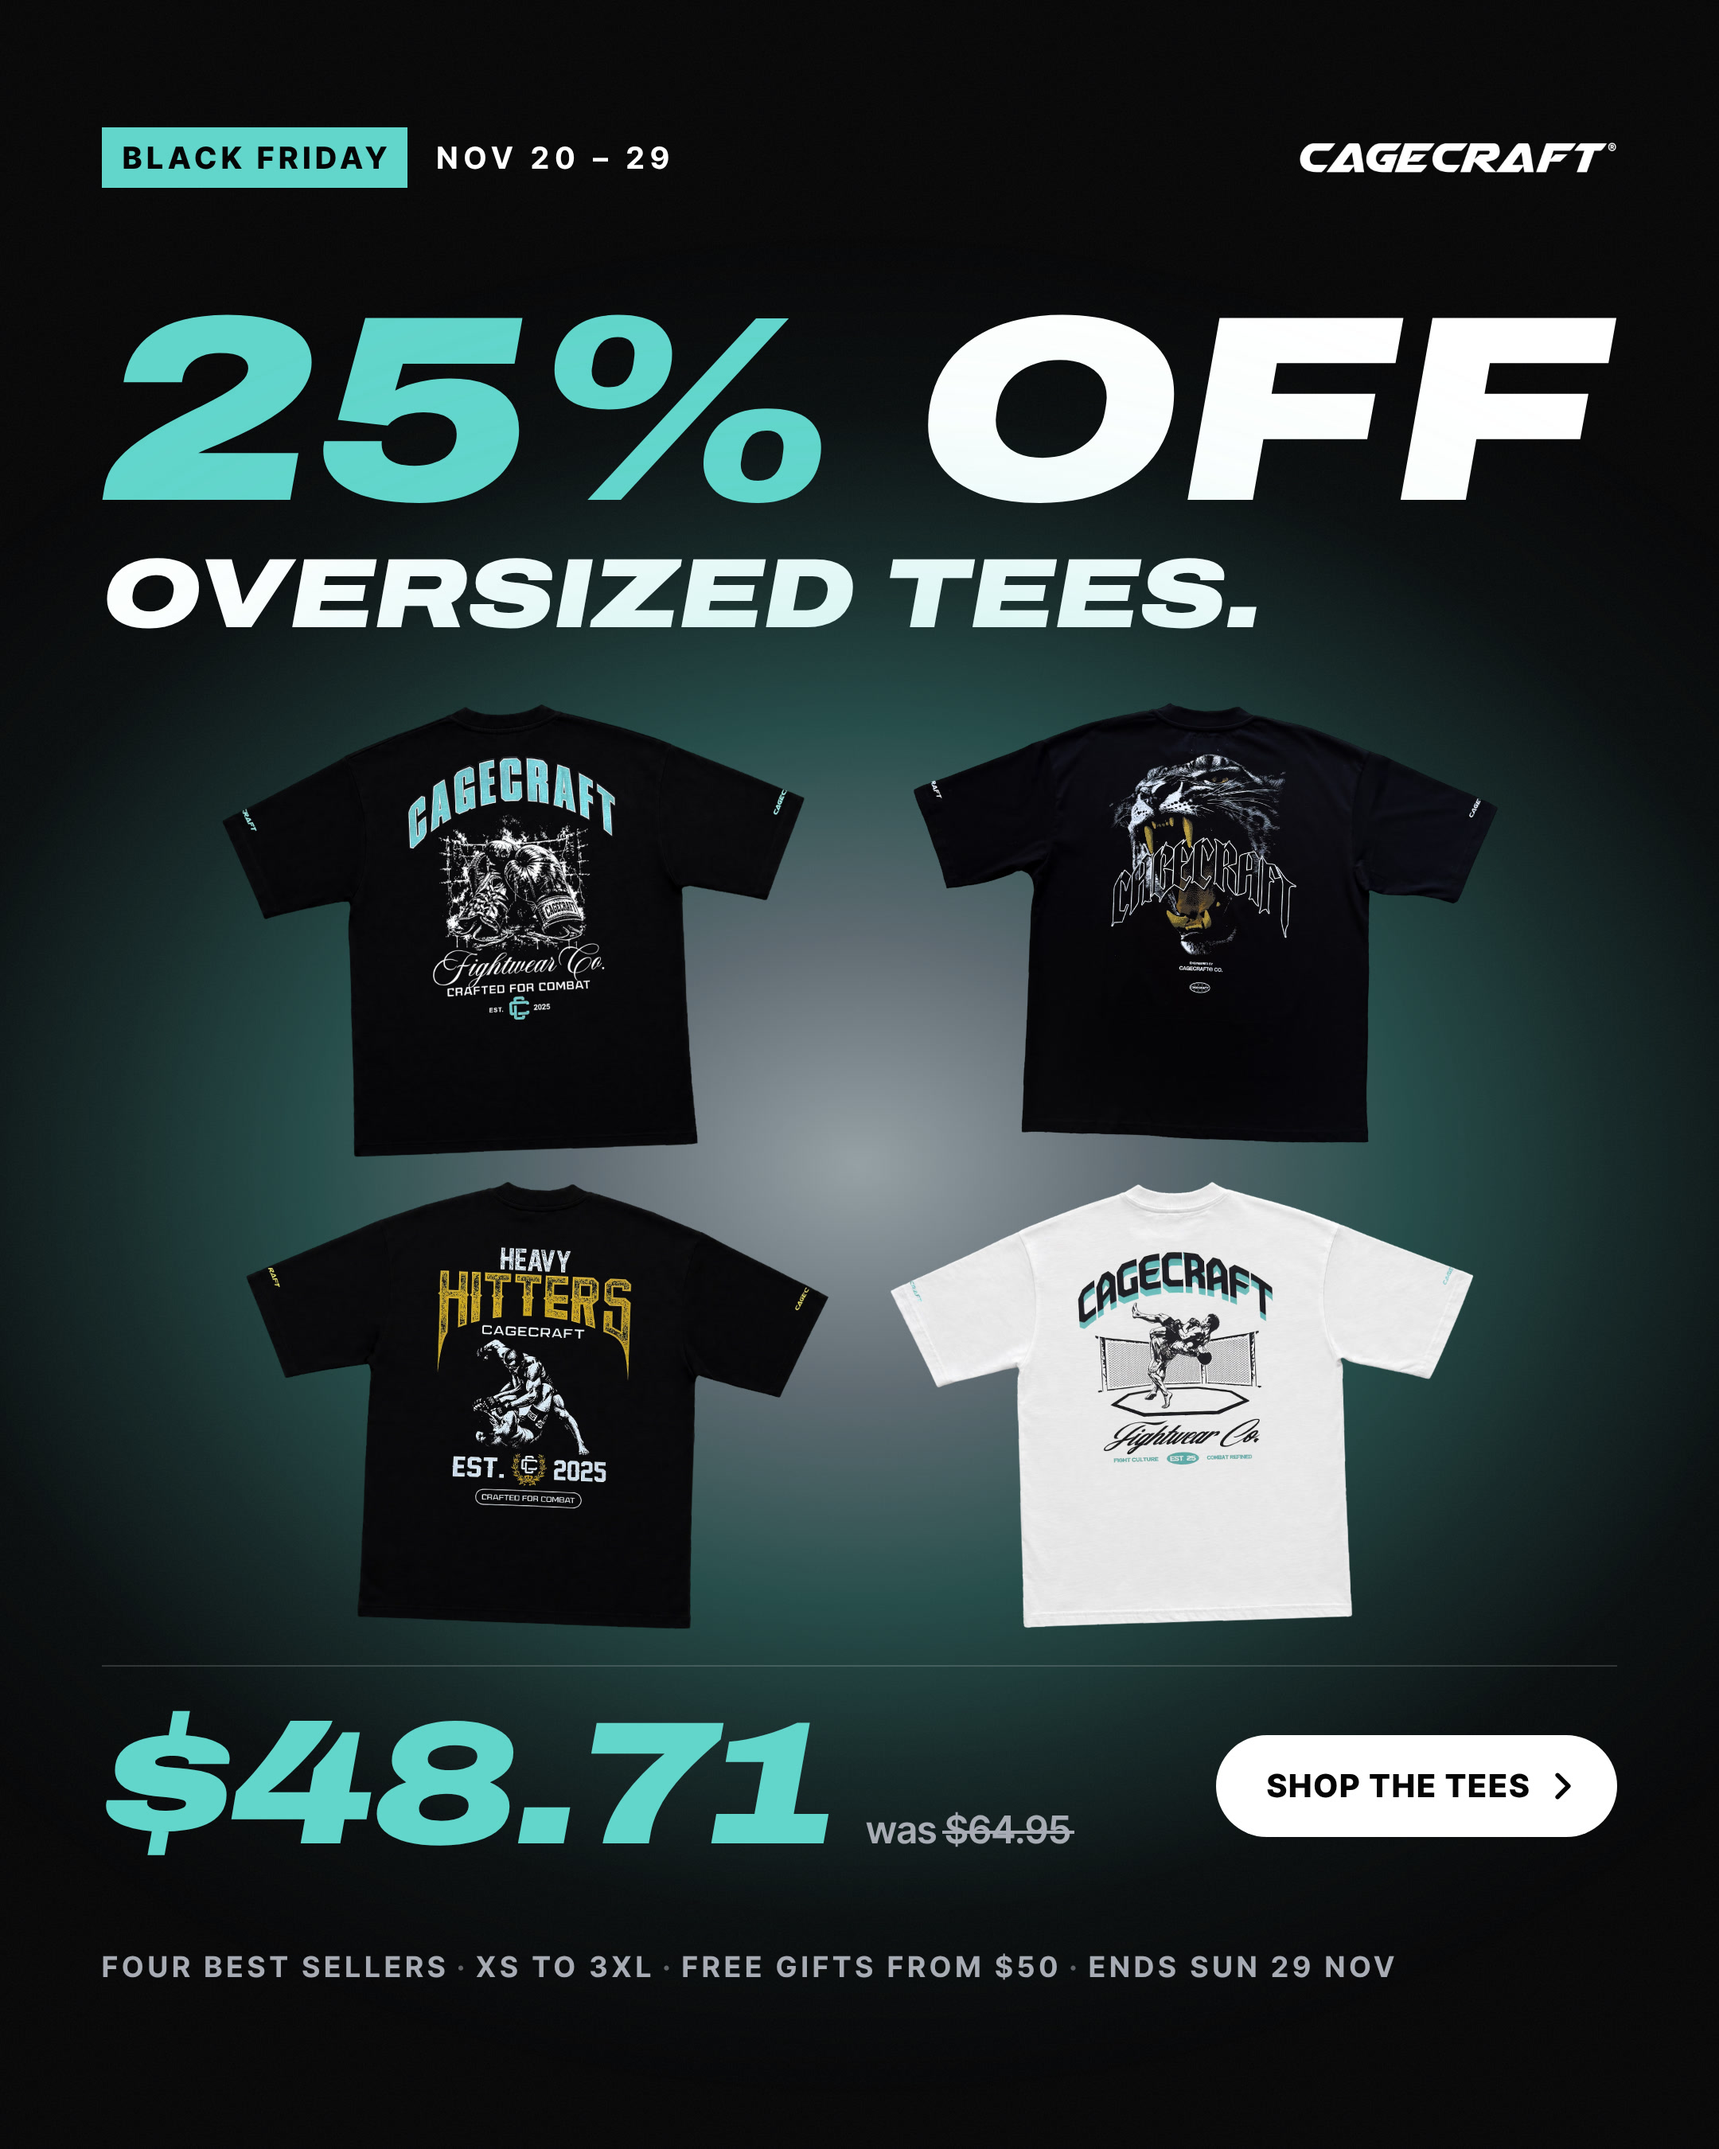
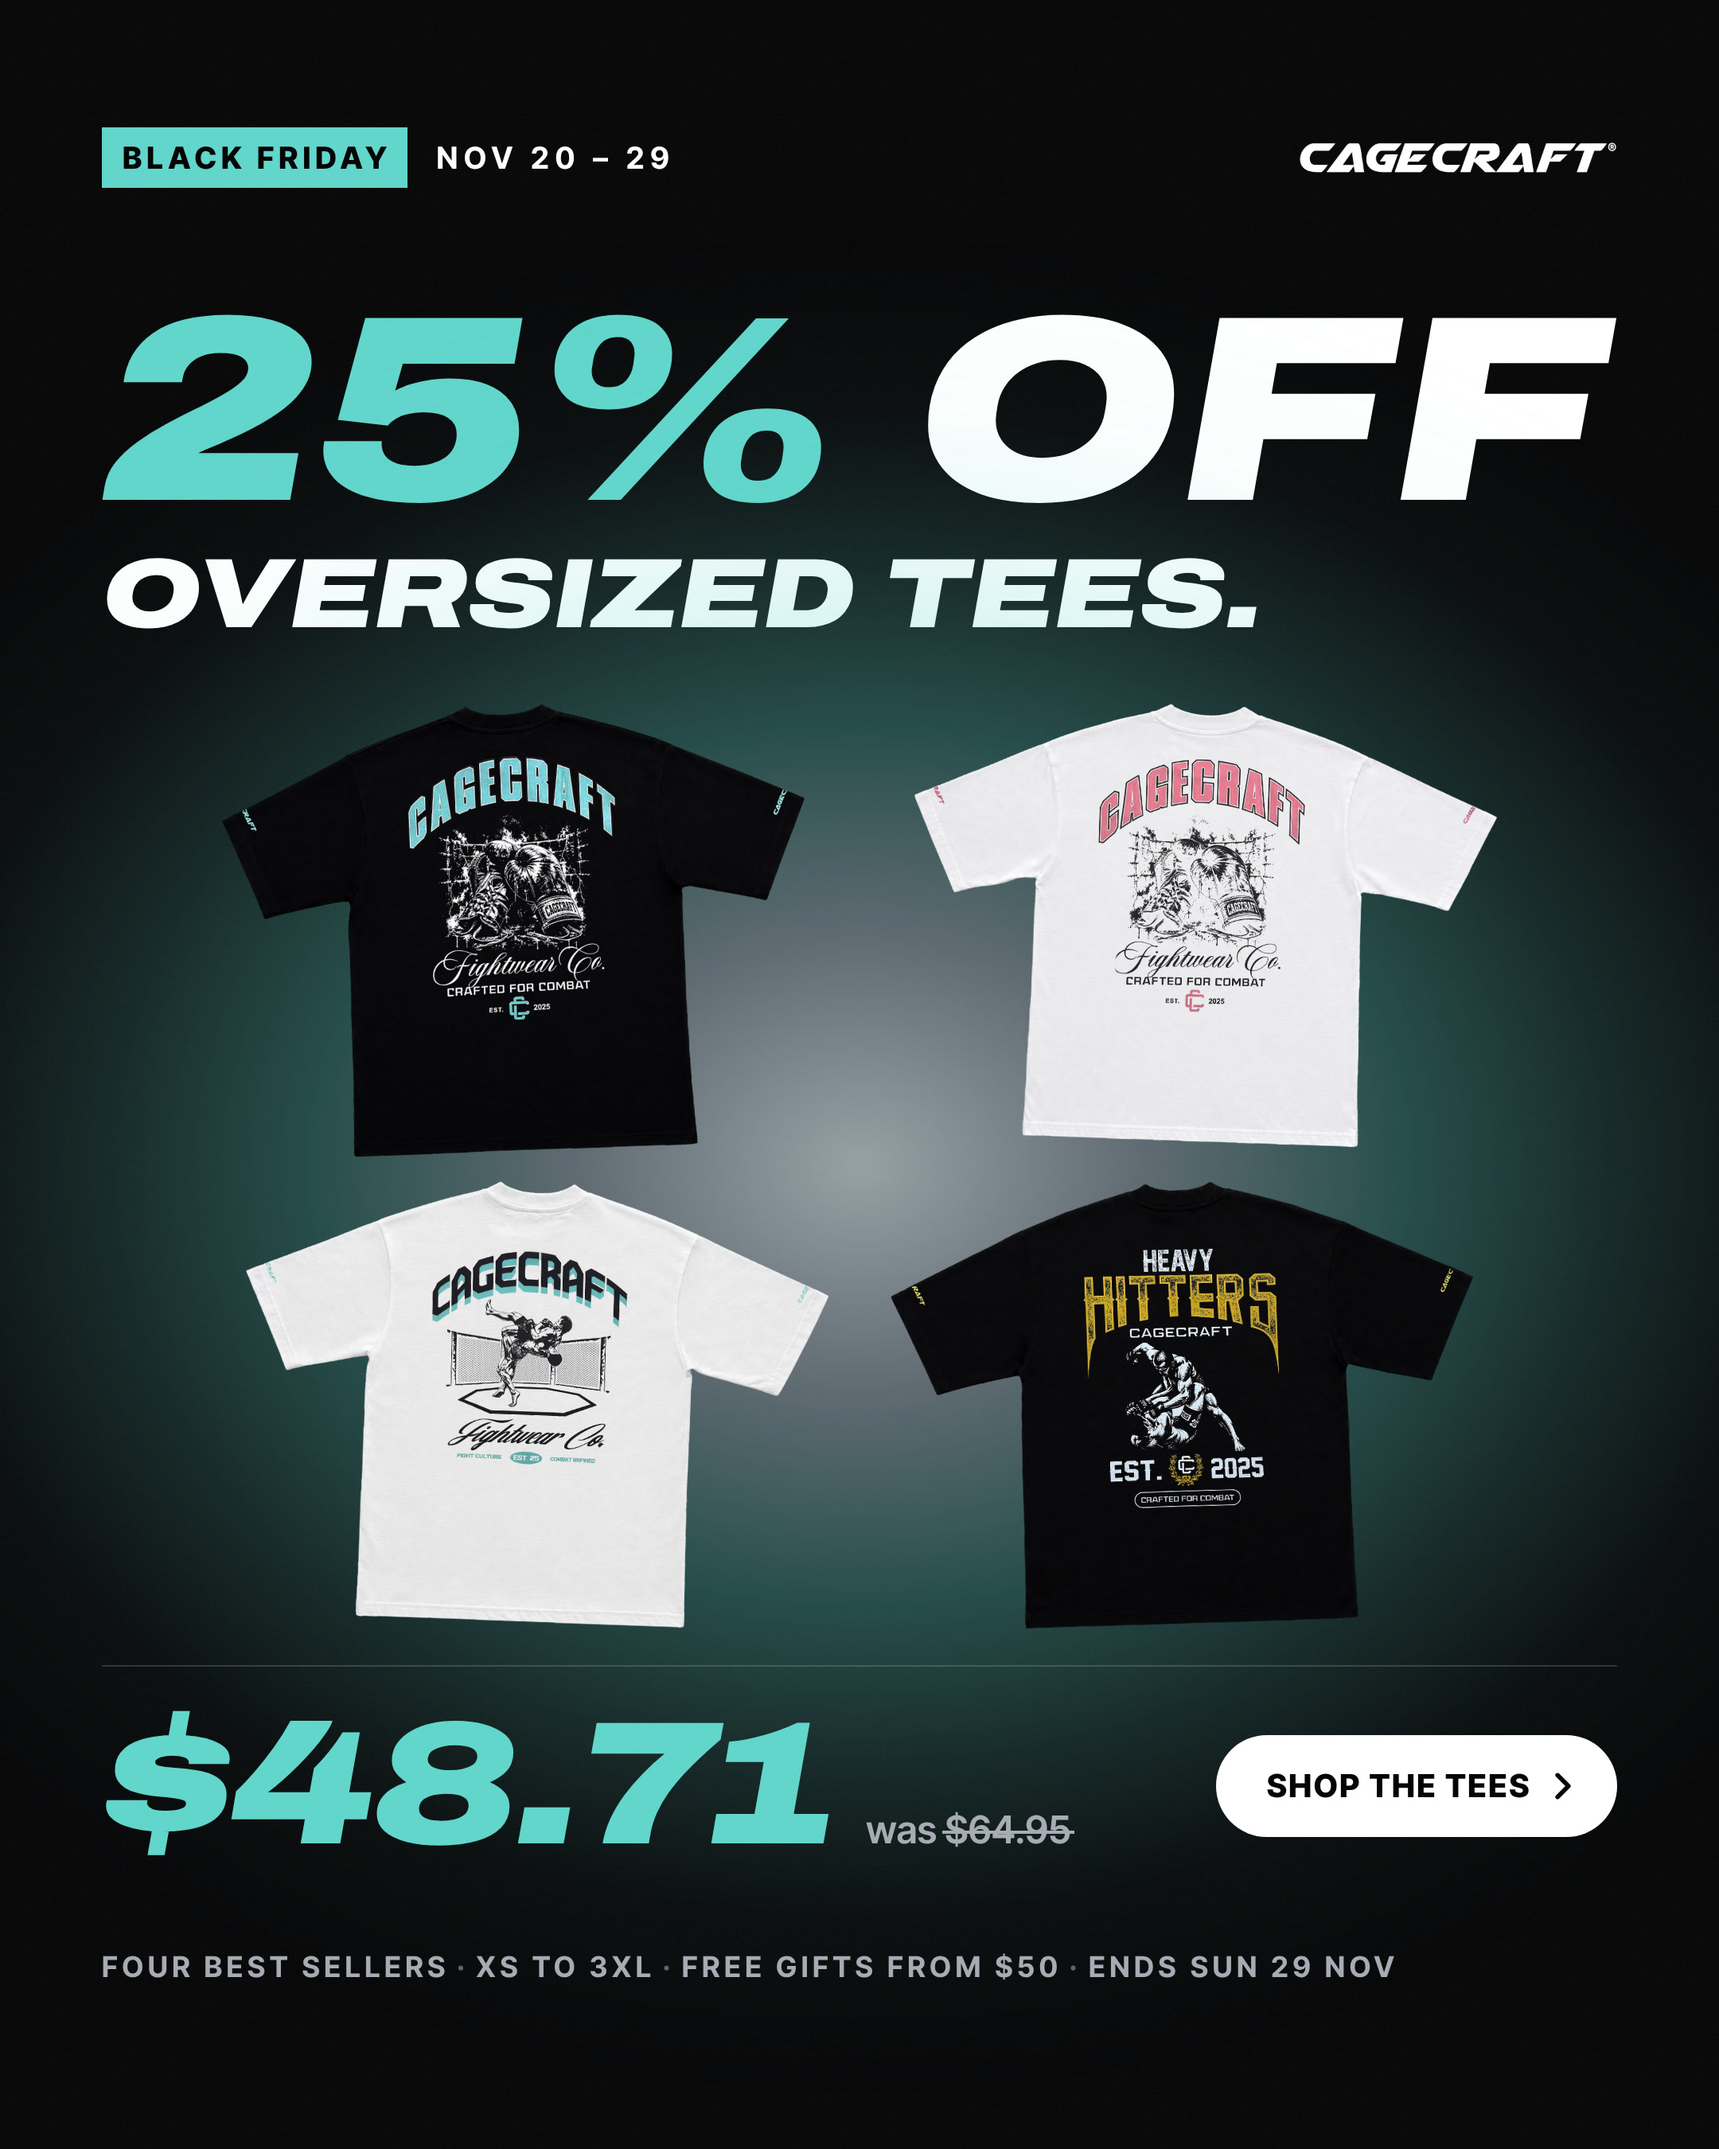
Tees ad: two black and two white tees
Claude-Session: https://claude.ai/code/session_01DwmoEmy8CSvczLcw7q8N8i

Changed region(s): [[0.1241, 0.3111, 0.8685, 0.7778]]

diff --git a/cagecraft-ads/ads/bf-11-tees-price-drop/ad.html b/cagecraft-ads/ads/bf-11-tees-price-drop/ad.html
@@ -96,7 +96,7 @@
   const L = tall ? { labelsY: 278, headY: 352, priceY: 1290, factsY: 1436 } : { labelsY: 80, headY: 184, priceY: 1046, factsY: 1228 };
   const R = document.documentElement.style;
   for (const [k, v] of Object.entries({ "--labels-y": L.labelsY, "--head-y": L.headY, "--h1": 166, "--h2": 62, "--price-y": L.priceY, "--facts-y": L.factsY })) R.setProperty(k, v + "px");
-  const items = tall ? [["tee-boxer-diamond/back.png", 315.0, 600, 400, -2, 0.7697], ["tee-apex-black/back.png", 765.0, 600, 400, 2, 0.7475], ["tee-heavy-hitters/back.png", 315.0, 930, 400, 2, 0.7619], ["tee-bodylock-tiffany/back.png", 765.0, 930, 400, -2, 0.7572]] : [["tee-boxer-diamond/back.png", 330.0, 440, 372, -2, 0.7697], ["tee-apex-black/back.png", 750.0, 440, 372, 2, 0.7475], ["tee-heavy-hitters/back.png", 330.0, 740, 372, 2, 0.7619], ["tee-bodylock-tiffany/back.png", 750.0, 740, 372, -2, 0.7572]];
+  const items = tall ? [["tee-boxer-diamond/back.png", 315.0, 600, 400, -2, 0.7697], ["tee-boxer-cottoncandy/back.png", 765.0, 600, 400, 2, 0.7519], ["tee-bodylock-tiffany/back.png", 315.0, 930, 400, 2, 0.7572], ["tee-heavy-hitters/back.png", 765.0, 930, 400, -2, 0.7619]] : [["tee-boxer-diamond/back.png", 330.0, 440, 372, -2, 0.7697], ["tee-boxer-cottoncandy/back.png", 750.0, 440, 372, 2, 0.7519], ["tee-bodylock-tiffany/back.png", 330.0, 740, 372, 2, 0.7572], ["tee-heavy-hitters/back.png", 750.0, 740, 372, -2, 0.7619]];
   const host = document.getElementById("lineup");
   const box = (cls, s) => { const d = document.createElement("div"); d.className = cls; Object.assign(d.style, s); host.appendChild(d); return d; };
   const x0 = Math.min(...items.map(i => i[1] - i[3] / 2)), x1 = Math.max(...items.map(i => i[1] + i[3] / 2));
